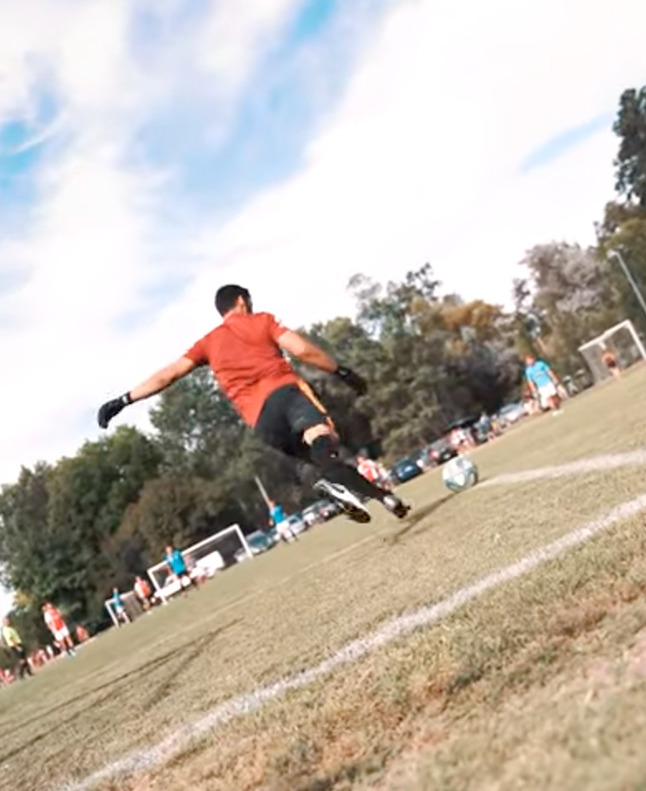
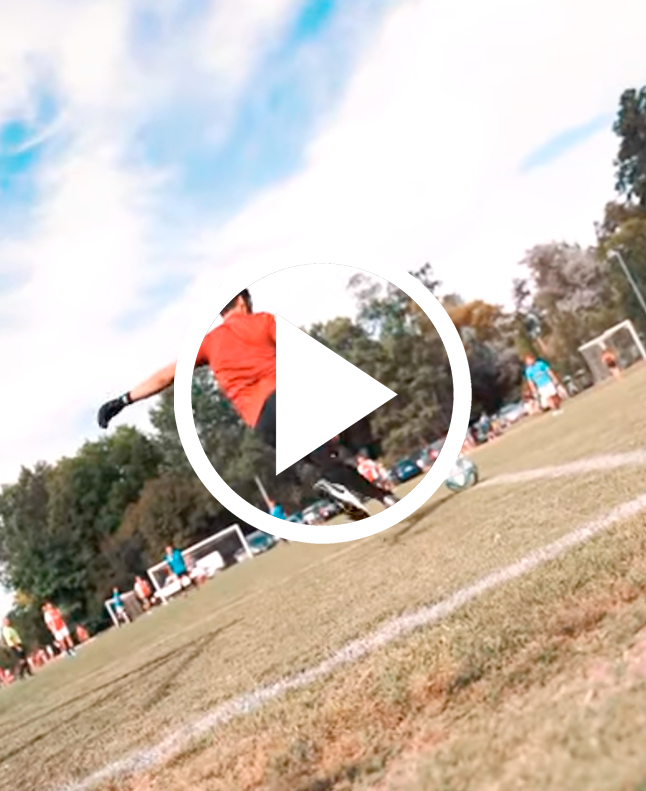
fix

diff --git a/src/components/nosotros.js b/src/components/nosotros.js
@@ -12,12 +12,14 @@ import Imagen11 from "../SELECCION DE FOTOS/areia1812-163.jpg";
 import Imagen12 from "../SELECCION DE FOTOS/areia producto-4.jpg";
 import Imagen13 from "../SELECCION DE FOTOS/Areia editadas-8.jpg";
 import Imagen14 from "../SELECCION DE FOTOS/areia 13_11-088.jpg";
+import closeButton from "../SELECCION DE FOTOS/closeButton.png";
 import video1 from "../videos/video1.mp4";
 import video2 from "../videos/video2.mp4";
 import video3 from "../videos/video3.mp4";
 import ContactoFooter from "./contactoFooter";
 import { Carousel } from "react-bootstrap";
 import {useState} from 'react';
+import { BrowserView, MobileView, isBrowser, isMobile } from "react-device-detect";
 export default function Nosotros() {
   const [isActive1, setIsActive1] = useState(false);
   const [isActive2, setIsActive2] = useState(false);
@@ -28,6 +30,22 @@ export default function Nosotros() {
   }
   function Mute(e) {
     e.target.muted = true
+    setIsActive1(false)
+    setIsActive2(false)
+    setIsActive3(false)
+  }
+  function play(e) {
+    e.target.play()
+    e.target.muted = false
+  }
+  function stop(e) {
+    e.target.pause()
+    e.target.muted = true
+  }
+  function closeAll(){
+    setIsActive1(false)
+    setIsActive2(false)
+    setIsActive3(false)
   }
   const handleClick1 = event => {
     // 👇 toggle isActive state on click
@@ -43,11 +61,14 @@ export default function Nosotros() {
   };
   return (
     <>
+    <div className={isActive1 || isActive2 || isActive3 ? 'closeButton-active' : "closeButton"} style={{backgroundImage:`url(${closeButton})`}} onClick={closeAll}></div>
+    <BrowserView>
       <div className="homeVideos">
+        
         <video
         className={isActive1 ? 'activeVideo' : ''}
           src={video1}
-          poster={Imagen1}
+       
           onMouseOver={unMute}
           onMouseLeave={Mute}
           onClick={handleClick1}
@@ -58,7 +79,7 @@ export default function Nosotros() {
         <video
         className={isActive2 ? 'activeVideo' : ''}
           src={video2}
-          poster={Imagen2}
+      
           onMouseOver={unMute}
           onMouseLeave={Mute}
           onClick={handleClick2}
@@ -69,7 +90,7 @@ export default function Nosotros() {
         <video
         className={isActive3 ? 'activeVideo' : ''}
           src={video3}
-          poster={Imagen3}
+  
           onMouseOver={unMute}
           onMouseLeave={Mute}
           onClick={handleClick3}
@@ -77,7 +98,42 @@ export default function Nosotros() {
           loop
           muted={isActive3 ? false : true}
         ></video>
+       
       </div>
+      </BrowserView>
+      <MobileView>
+      <div className="homeVideos">
+        
+        <video
+        className={isActive1 ? 'activeVideo' : ''}
+          src={video1}
+          poster={Imagen1}
+          onMouseOver={play}
+          onMouseLeave={stop}
+          onClick={handleClick1}
+          muted={isActive1 ? false : true}
+        ></video>
+        <video
+        className={isActive2 ? 'activeVideo' : ''}
+          src={video2}
+          poster={Imagen2}
+          onMouseOver={play}
+          onMouseLeave={stop}
+          onClick={handleClick2}
+          muted={isActive2 ? false : true}
+        ></video>
+        <video
+        className={isActive3 ? 'activeVideo' : ''}
+          src={video3}
+          poster={Imagen3}
+          onMouseOver={play}
+          onMouseLeave={stop}
+          onClick={handleClick3}
+          muted={isActive3 ? false : true}
+        ></video>
+       
+      </div>
+      </MobileView>
       <div
         className="nosotrosInfo"
         style={{ backgroundColor: "white", height: "21vh" }}

diff --git a/src/components/eventos.js b/src/components/eventos.js
@@ -26,7 +26,7 @@ export default function Eventos() {
         </h1>
         <div style={{ display: "flex", alignItems: "baseline" }}>
           <img className="spanAeria" style={{ height: "22px" }} src={logo} />
-          <p style={{ color: "#C3D900", fontSize: "25px" }}>/ eventos</p>
+          <p style={{ color: "#C3D900", fontSize: "22px" }}>/ eventos</p>
         </div>
       </div>
       <div
@@ -128,7 +128,7 @@ export default function Eventos() {
         </div>
       </div>
       <div className="divOrg">
-        <div style={{height:"100%",display:"grid",backgroundColor:"white",color:"black",width:"47vw",alignItems:"center",justifyItems:"center",padding:"3%",textAlign:"center"}}>
+        <div className="contt" style={{height:"100%",display:"grid",backgroundColor:"white",color:"black",width:"47vw",alignItems:"center",justifyItems:"center",padding:"3%",textAlign:"center"}}>
           <h1>
             TENEMOS UN EQUIPO QUE SE ENCARGA <br/> DE TODOS LOS ASPECTOS DE TU EVENTO.
           </h1>
@@ -136,7 +136,7 @@ export default function Eventos() {
           <h1>LA ORGANIZACION, COORDINACION<br/> Y ASESORAMIENTO REQUERIDO.</h1>
           <p> Realizamos Eventos Sociales y Corporativos, sintiéndolos<br/> propio acompaniando al cliente en todos los pasos a dar.</p>
         </div>
-        <div style={{ backgroundImage: `url(${imagen5})`,height:"100%",width:"53vw",backgroundRepeat:"no-repeat",backgroundSize:"100% 100%" }}></div>
+        <div className="contt2" style={{ backgroundImage: `url(${imagen5})`,height:"100%",width:"53vw",backgroundRepeat:"no-repeat",backgroundSize:"100% 100%" }}></div>
       </div>
       <ContactoFooter />
     </>

diff --git a/src/App.css b/src/App.css
@@ -14,7 +14,9 @@ body {
 }
 
 /*rgb(243 255 51);*/
-
+.closeButton{
+  display: none;
+}
 .home {
   display: flex;
   justify-content: center;
@@ -275,9 +277,28 @@ a {
   font-weight: 400;
 }
 @media (max-width: 991px) {
+  .divOrg {
+    height: 150vh;
+    display: grid !important;
+    width: 100%;
+  }
+  .contt{
+    width: 100% !important;
+    font-size: 12px;
+  }
+  .contt h1 {
+    font-size: 18px;
+  }
+  .contt div{
+    width: 80% !important;
+  }
+  .contt2{
+    width: 100% !important;
+    height: 60vh !important;
+  }
   .divCasamiento {
     height: 60vh !important;
-    margin: 0 8% 8% 8% !important;
+    margin: 0 8% 0% 8% !important;
   }
   .textTorneo {
     padding: 5%;
@@ -476,9 +497,22 @@ strong {
 .activeVideo {
   position: relative;
   bottom: 5vh;
-  height: 85vh !important;
 }
 @media (max-height: 900px) {
+  .closeButton-active{
+    display: initial;
+    position: absolute;
+    z-index: 1000;
+    height: 40px;
+    width:40px;
+    top:70%;
+    left: 0; 
+    right: 0; 
+    margin-left: auto; 
+    margin-right: auto; 
+    filter:  invert(1) drop-shadow(3px 4px 6px black);
+    background-size: 100% 100%;
+  }
   .homeVideos video {
     height: 200px;
     border-radius: 18px;
@@ -492,9 +526,9 @@ strong {
   }
   .activeVideo {
     position: absolute;
-    z-index: 1000;
-    height: 80vh !important;
-    width: 80vw !important;
+    z-index: 999;
+    height: 75vh !important;
+    width: 90vw !important;
   }
   .imgInicio {
     height: 35vh !important;
